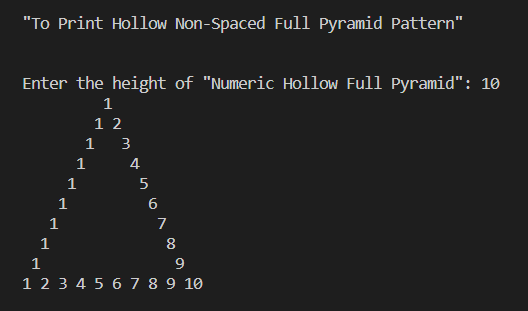
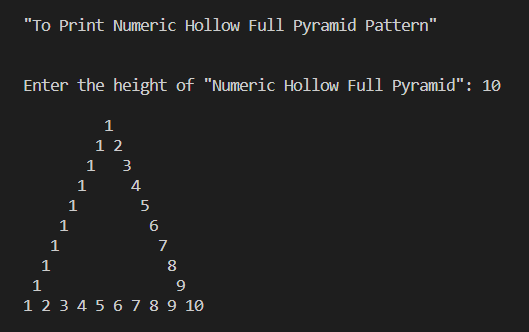
Numeric Palindrome Equilateral Pyramid Pattern

diff --git a/02_Playing with Patterns/23_Numeric Palindrome Equilateral Pyramid/01_Numeric_Palindrome_Equilateral_Pyramid.cpp b/02_Playing with Patterns/23_Numeric Palindrome Equilateral Pyramid/01_Numeric_Palindrome_Equilateral_Pyramid.cpp
@@ -1,0 +1,78 @@
+// Numeric Palindrome Equilateral Pyramid 
+
+#include<iostream>
+using namespace std;
+
+
+int main(){
+
+    cout << endl;
+    cout << "\"To Print Numeric Palindrome Equilateral Pyramid Pattern\"" << endl;
+    cout << endl; 
+
+    cout << endl;
+
+    int height; 
+    cout << "Enter the height of \"Numeric Palindrome Equilateral Pyramid\": "; 
+    cin >> height;
+
+    cout << endl;
+
+    // Logic for printing "Numeric Palindrome Equilateral Pyramid": 
+    for(int row=0; row < height; row++){
+        for(int col=0; col < height-row-1; col++){
+            cout << "  ";
+        }
+        for(int col=0; col < row+1; col++){
+            cout << col+1 << " ";
+        }
+        for(int col=row; col > 0; col--){
+            cout << col << " ";
+        }
+        cout << endl;
+    }
+    
+    cout << endl;
+
+    return 0;
+}
+
+
+/*
+
+    // My Alternate Logic for printing "Numeric Palindrome Equilateral Pyramid": 
+
+    for(int row=0; row < height; row++){
+        for(int col=0; col < height-row-1; col++){
+            cout << "  ";
+        }
+        for(int col=0, i=row; col < 2*(row)+1; col++){
+            if(col<=row){
+                cout << col+1 << " ";
+            }
+            else{
+                cout << i-- << " ";
+            }
+        }
+        cout << endl;
+    }
+
+*/
+
+
+/*
+
+    // Much more compact version of above code using ternary operator
+    
+    // And using property of loops/if statements which says "If you don't define body of loop/if statement explicitly using curly braces, then until next terminator everything in between will be considered as the body of loop/if statement" 
+
+
+    for(int row=0; row < height; row++){
+        for(int col=0; col < height-row-1; col++)
+            cout << "  ";
+        for(int col=0, i=row; col < 2*(row)+1; col++)
+            (col<=row) ? cout << col+1 << " " : cout << i-- << " ";
+        cout << endl;
+    }
+
+*/

diff --git a/02_Playing with Patterns/22_Numeric Hollow Full Pyramid/01_Numeric_Hollow_Full_Pyramid.cpp b/02_Playing with Patterns/22_Numeric Hollow Full Pyramid/01_Numeric_Hollow_Full_Pyramid.cpp
@@ -15,6 +15,7 @@ int main(){
     cout << "Enter the height of \"Numeric Hollow Full Pyramid\": ";
     cin >> height;
 
+    cout << endl;
 
     // Logic for printing "Numeric Hollow Full Pyramid": 
     for(int row=0; row < height; row++){
